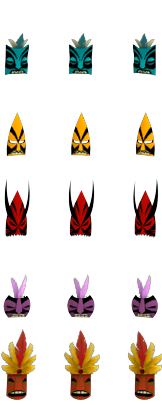
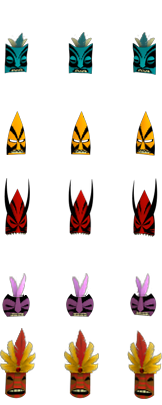
VV5 bighead: use vv5_heathenheads.png frames 5/6/7 (owner 1-based = cols 4/5/6)
Owner spec: the Details bighead mask uses the NORMAL heathen atlas
(vv5_heathenheads.png), frames 5/6/7 = right/front/left. Owner counts frames
1-based (leftmost = frame 1), so those are 0-based columns 4/5/6 -- the earlier
0-based [5,6,7] read grabbed the strong-profile 8th-ish frame for "left", which
looked wrong. Fixed to [4,5,6].

Positioning preserved: each extracted frame is aligned to the original atlas's
per-cell placement (chin line, horizontal centre, per-colour height, reconstructed
from bigheads_masks_source.png), so the proven offset-table tuning (BH_COLDX,
BH_LIFT, BH_ROWDY, child offset) still lands. Only the ART changes to the owner's
frames; the geometry is unchanged. Owner confirmed correct in-game.

Re-pinned atlas + manifest SHAs. VV5 + release suites green.

diff --git a/scripts/build_vv5_bighead_mask_atlas.py b/scripts/build_vv5_bighead_mask_atlas.py
@@ -1,17 +1,23 @@
 """Generate the VV5 Details-portrait bighead mask atlas (bigheads_masks.png).
 
-Source art (owner-supplied) is a 3-column x 5-row sheet where the 3 COLUMNS are
-the three head facings used by the Details idle animation (col0 = right-facing,
-col1 = front, col2 = left-facing) and the 5 ROWS are the mask colours
-(Blue/Orange/Red/Purple/Chief). Each column's mask is pre-aligned horizontally to
-its facing's face-within-the-sprite, so the render tracks the head turn by
-selecting the atlas column from the head's facing frame.
+The bighead mask uses the NORMAL heathen mask atlas (vv5_heathenheads.png, an
+8-column x 5-row sheet), taking ONLY the three Details facings the owner specified.
+The owner counts frames 1-based (leftmost column = frame 1), so owner frames
+5/6/7 are 0-based columns 4/5/6:
+    frame 5 (col 4) = right-facing, frame 6 (col 5) = front-facing,
+    frame 7 (col 6) = left-facing
+and emitting them (in that order) as a 3-column x 5-row atlas (col0=right,
+col1=front, col2=left) -- the layout the native bighead draw expects
+(BIGHEAD_ATLAS_COLS=3, BH_FACE_TABLE=[0,1,2]).
 
-This packer:
-  * keeps each column's horizontal position (the per-facing alignment), and
-  * for each ROW, crops+places all three columns with the SAME vertical range so
-    a colour's three facing frames share an identical Y (owner requirement), then
-  * bottom-aligns the rows to a common chin line.
+Positioning: the native bighead draw's tuning (BH_COLDX_TABLE, BH_LIFT, BH_ROWDY,
+child offset) was dialed in against the ORIGINAL atlas's 54x81 cell placement, and
+the owner confirmed that positioning is correct. So each extracted frame is ALIGNED
+to the original atlas's per-cell placement -- same chin line, same horizontal
+centre, same content height per colour/facing -- so the proven tuning still lands.
+The original placement is reconstructed from bigheads_masks_source.png (the same
+packer that produced the shipped-correct atlas). Only the ART changes (to the
+owner's frames 5/6/7); the geometry is preserved.
 
 Output is a 3x5 even-grid RGBA PNG registered as sprite id 0x155 by
 build_vv5_task9_native_actions.py and shipped to the game's Images/ folder.
@@ -25,19 +31,27 @@ from PIL import Image
 import numpy as np
 
 ROOT = Path(__file__).resolve().parents[1]
-SRC = ROOT / "assets" / "vv5_bighead_masks" / "bigheads_masks_source.png"
+# Placement reference: the original 3-col source, packed exactly as the
+# shipped-correct atlas was, gives the per-cell target chin/centre/height.
+REF_SRC = ROOT / "assets" / "vv5_bighead_masks" / "bigheads_masks_source.png"
+# Art source: the normal heathen mask atlas; we take frames 5/6/7.
+ART_SRC = ROOT / "assets" / "vv5_bighead_masks" / "vv5_heathenheads.png"
 OUT = ROOT / "assets" / "vv5_bighead_masks" / "bigheads_masks.png"
-COLS, ROWS = 3, 5
+COLS, ROWS = 3, 5            # output: 3 Details facings x 5 mask colours
+ART_COLS = 8                 # vv5_heathenheads.png is 8 directional frames
+SRC_FRAMES = [4, 5, 6]       # owner frames 5/6/7 (1-based) = cols 4/5/6: right / front / left
+TARGET_CELL_W, TARGET_CELL_H = 54, 81
 MARGIN = 5
 ALPHA = 16
 
 
-def build(src_path: Path = SRC, out_path: Path = OUT) -> Image.Image:
-    src = Image.open(src_path).convert("RGBA")
+def _reference_atlas() -> Image.Image:
+    """Rebuild the original-placement 3x5 atlas from the 3-col source (the packer
+    that produced the shipped-correct geometry), at 54x81 cells."""
+    src = Image.open(REF_SRC).convert("RGBA")
     W, H = src.size
     icw, ich = W // COLS, H // ROWS
     a = np.array(src)[:, :, 3]
-    # per-row combined vertical bbox (across the 3 facing columns)
     rowbb = []
     maxrh = 0
     for r in range(ROWS):
@@ -55,12 +69,42 @@ def build(src_path: Path = SRC, out_path: Path = OUT) -> Image.Image:
     for r in range(ROWS):
         y0, y1 = rowbb[r]
         rh = y1 - y0
-        dy = r * cell_h + (cell_h - MARGIN - rh)  # bottom-align rows
+        dy = r * cell_h + (cell_h - MARGIN - rh)
         for c in range(COLS):
-            # full column width preserves the per-facing horizontal alignment;
-            # the row's shared y-range gives every colour's 3 frames the same Y.
             strip = src.crop((c * icw, r * ich + y0, (c + 1) * icw, r * ich + y1))
             out.paste(strip, (c * icw, dy), strip)
+    return out.resize((TARGET_CELL_W * COLS, TARGET_CELL_H * ROWS), Image.LANCZOS)
+
+
+def _autocrop(im: Image.Image) -> Image.Image:
+    b = np.array(im)[:, :, 3]
+    ys, xs = np.nonzero(b > ALPHA)
+    return im.crop((int(xs.min()), int(ys.min()), int(xs.max()) + 1, int(ys.max()) + 1))
+
+
+def build(out_path: Path = OUT) -> Image.Image:
+    ref = _reference_atlas()          # correct-placement reference
+    ra = np.array(ref)[:, :, 3]
+    art = Image.open(ART_SRC).convert("RGBA")
+    acw, ach = art.size[0] // ART_COLS, art.size[1] // ROWS
+    ocw, och = TARGET_CELL_W, TARGET_CELL_H
+    out = Image.new("RGBA", (ocw * COLS, och * ROWS), (0, 0, 0, 0))
+    for r in range(ROWS):
+        for i, sf in enumerate(SRC_FRAMES):
+            # target placement from the reference cell (chin, h-centre, height)
+            cell = ra[r * och:(r + 1) * och, i * ocw:(i + 1) * ocw]
+            ys, xs = np.nonzero(cell > ALPHA)
+            hcenter = (int(xs.min()) + int(xs.max())) / 2.0
+            chin = int(ys.max())
+            height = int(ys.max()) - int(ys.min()) + 1
+            # extract + uniformly scale the owner's frame to the target height
+            frame = _autocrop(art.crop((sf * acw, r * ach, (sf + 1) * acw, (r + 1) * ach)))
+            s = height / frame.height
+            nw, nh = max(1, round(frame.width * s)), max(1, round(height))
+            scaled = frame.resize((nw, nh), Image.LANCZOS)
+            x0 = int(round(hcenter - nw / 2.0))
+            y0 = int(round(chin - nh))
+            out.alpha_composite(scaled, (i * ocw + x0, r * och + y0))
     out_path.parent.mkdir(parents=True, exist_ok=True)
     out.save(out_path)
     return out
@@ -68,8 +112,7 @@ def build(src_path: Path = SRC, out_path: Path = OUT) -> Image.Image:
 
 if __name__ == "__main__":
     img = build()
-    dest = sys.argv[1] if len(sys.argv) > 1 else None
-    print(f"wrote {OUT} {img.size} (3 facings x 5 colours, per-colour shared Y)")
-    if dest:
-        img.save(dest)
-        print(f"also wrote {dest}")
+    print(f"wrote {OUT} {img.size} (frames {SRC_FRAMES}=R/F/L from vv5_heathenheads.png, aligned to original placement)")
+    if len(sys.argv) > 1:
+        img.save(sys.argv[1])
+        print(f"also wrote {sys.argv[1]}")

diff --git a/src/vv_fun_patcher.py b/src/vv_fun_patcher.py
@@ -693,13 +693,13 @@ VV5_TASK9_PATHS = {
     "dll": ROOT / "data" / "candidates" / "VVFP VV5 Task9 Origins Icons.dll",
 }
 VV5_TASK9_SOURCE_TEXT_SHA256 = {
[3 lines of base64/hex data omitted]
 }
[1 lines of base64/hex data omitted]
 # Dedicated Details-portrait bighead mask atlas shipped to Images/bigheads_masks.png.
[1 lines of base64/hex data omitted]
-VV5_TASK9_BIGHEAD_ATLAS_SIZE = 41650
[1 lines of base64/hex data omitted]
+VV5_TASK9_BIGHEAD_ATLAS_SIZE = 44493
 VV5_TASK9_PAGE_SHA256 = {
[2 lines of base64/hex data omitted]
@@ -734,12 +734,12 @@ EXPANDED_TIME_WARP_SOURCE_TEXT_SHA256 = {
 }
 EXPANDED_TIME_WARP_ARTIFACT_SHA256 = {
     "vv3": {
[4 lines of base64/hex data omitted]
     },
     "vv5": {
[3 lines of base64/hex data omitted]
     },
 }
